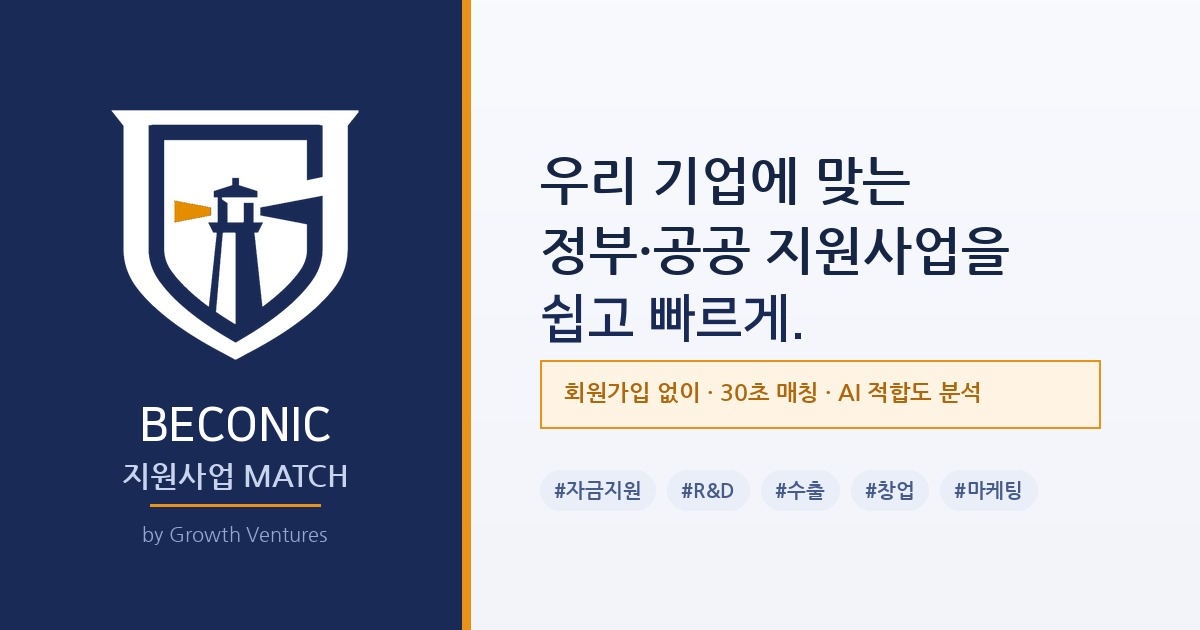
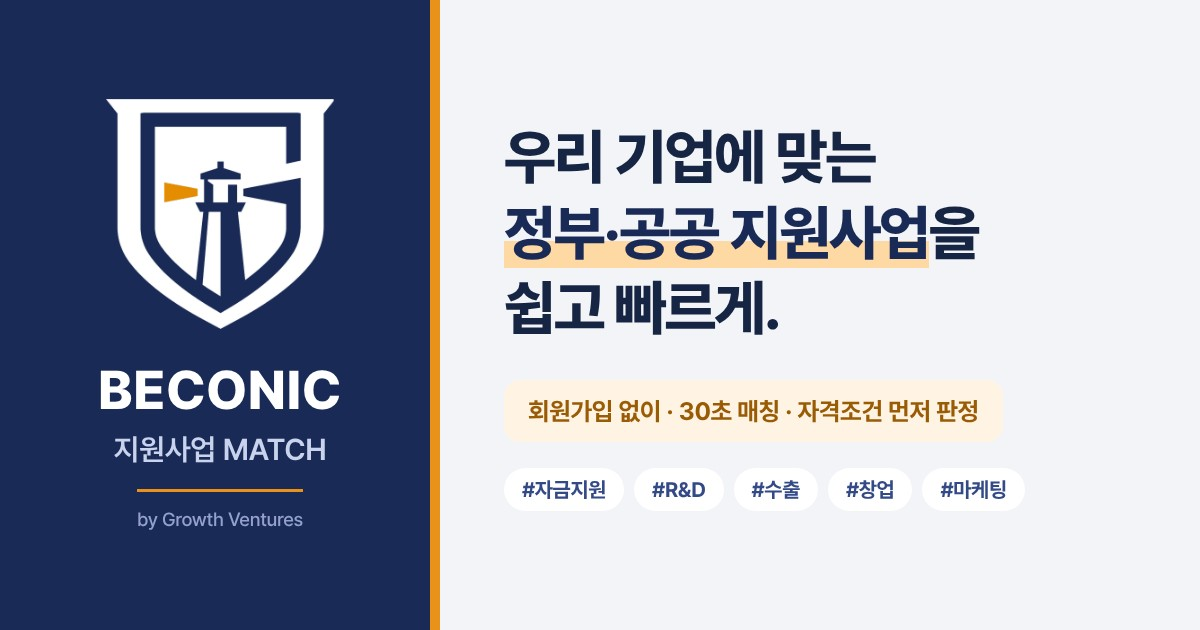
grants v3.21.1: 카카오톡 미리보기 이미지 Pretendard 재제작 · 챗봇 카드 썸네일 (#65)
- 미리보기(OG) 1200×630을 design/og.html 원본에서 Pretendard로 다시 제작, scripts/render-images.mjs로 재생성(글꼴 로드 확인), 캐시 버전 v=210
- 챗봇 카드 썸네일 800×400(맞춤 매칭·상담·재무·HR·기술·성장), design/kakao-card.html 원본, assets/kakao/
- 어두운 바탕용 흰 방패 로고 assets/shield-white.png
- 지원사업 MATCH 카드 버튼 '진단 시작' → '지원사업 찾기'
- 서버 테스트: 썸네일 https·파일 존재·캐러셀 일관성 검사

Claude-Session: https://claude.ai/code/session_0161FRMUtymWUwHkGZAfqS4C

Changed region(s): [[0.3392, 0.0, 0.925, 1.0], [0.0617, 0.1508, 0.3083, 0.8746], [0.4317, 0.754, 0.8633, 0.8143]]

diff --git a/grants/design/kakao-card.html b/grants/design/kakao-card.html
@@ -1,0 +1,31 @@
+<!DOCTYPE html>
+<!-- 카카오 챗봇 카드 썸네일 원본(800×400, 2:1). 주소 뒤 #종류 로 내용을 고른다. `node scripts/render-images.mjs`로 assets/kakao/에 만든다. -->
+<html lang="ko"><head><meta charset="UTF-8">
+<link rel="stylesheet" href="https://cdn.jsdelivr.net/gh/orioncactus/pretendard@v1.3.9/dist/web/static/pretendard.min.css">
+<style>
+*{box-sizing:border-box;margin:0}
+body{width:800px;height:400px;font-family:'Pretendard',sans-serif;letter-spacing:-.02em;word-break:keep-all;overflow:hidden;
+  background:var(--bg);color:#fff;display:flex;flex-direction:column;justify-content:center;padding:0 60px;position:relative}
+body::before{content:"";position:absolute;right:-90px;top:-90px;width:340px;height:340px;border-radius:50%;background:var(--glow)}
+.k{display:inline-flex;align-items:center;gap:10px;font-size:22px;font-weight:700;color:var(--kc);margin-bottom:18px}
+.k img{width:34px;height:34px}
+h1{font-size:52px;font-weight:800;line-height:1.25;letter-spacing:-.035em;max-width:600px;position:relative}
+p{font-size:23px;font-weight:600;color:var(--pc);margin-top:18px;position:relative}
+.ic{position:absolute;right:60px;bottom:52px;font-size:84px;line-height:1}
+</style></head><body>
+<span class="k"><img src="../assets/shield-white.png" alt="">BECONIC</span>
+<h1 id="t"></h1><p id="d"></p><span class="ic" id="i"></span>
+<script>
+const C={
+  match:   {t:'우리 회사 맞춤<br>지원사업 찾기', d:'회원가입 없이 · 30초 · 자격조건 먼저 판정', i:'🎯', bg:'#1a2a56', glow:'rgba(120,150,230,.16)', kc:'#ffd08a', pc:'#c9d3ee'},
+  consult: {t:'전문 컨설턴트와<br>함께 준비해요', d:'중기부 인증 중소기업상담회사 (제2025-684호)', i:'💬', bg:'#e8921a', glow:'rgba(255,255,255,.18)', kc:'#fff4e4', pc:'#fff4e4'},
+  finance: {t:'기업 재무진단', d:'성장성·수익성·안정성·현금흐름', i:'📊', bg:'#1f6f5c', glow:'rgba(255,255,255,.12)', kc:'#c8f0e2', pc:'#c8f0e2'},
+  hr:      {t:'HR 조직건강 진단', d:'조직 상태·HR 제도·법정 노무', i:'👥', bg:'#3b4fa0', glow:'rgba(255,255,255,.12)', kc:'#dfe5fb', pc:'#dfe5fb'},
+  tech:    {t:'기업 기술진단', d:'기술수준·R&D 역량·기술격차', i:'🔬', bg:'#24406f', glow:'rgba(255,255,255,.12)', kc:'#d4e2fa', pc:'#d4e2fa'},
+  growth:  {t:'성장활동 진단', d:'9개 영역 27문항 · 90일 실행계획', i:'🚀', bg:'#5b3e8f', glow:'rgba(255,255,255,.12)', kc:'#e9dffb', pc:'#e9dffb'},
+};
+const c=C[location.hash.slice(1)]||C.match;
+for(const [k,v] of Object.entries({'--bg':c.bg,'--glow':c.glow,'--kc':c.kc,'--pc':c.pc})) document.body.style.setProperty(k,v);
+t.innerHTML=c.t; d.textContent=c.d; i.textContent=c.i;
+</script>
+</body></html>

diff --git a/grants/design/og.html b/grants/design/og.html
@@ -1,0 +1,27 @@
+<!DOCTYPE html>
+<!-- 카카오톡·SNS 미리보기 이미지 원본(1200×630). 수정 후 `node scripts/render-images.mjs`로 assets/에 다시 만든다. -->
+<html lang="ko"><head><meta charset="UTF-8">
+<link rel="stylesheet" href="https://cdn.jsdelivr.net/gh/orioncactus/pretendard@v1.3.9/dist/web/static/pretendard.min.css">
+<style>
+*{box-sizing:border-box;margin:0}
+body{width:1200px;height:630px;font-family:'Pretendard',sans-serif;display:flex;letter-spacing:-.02em;word-break:keep-all;overflow:hidden}
+.l{width:440px;background:#1a2a56;color:#fff;display:flex;flex-direction:column;align-items:center;justify-content:center;gap:0;position:relative}
+.l::after{content:"";position:absolute;right:0;top:0;bottom:0;width:10px;background:#e8921a}
+.l img{width:230px;height:230px;margin-bottom:34px}
+.l b{font-size:54px;font-weight:800;letter-spacing:.01em;line-height:1}
+.l .s{font-size:30px;font-weight:600;color:#c9d3ee;margin-top:14px}
+.l .by{font-size:19px;font-weight:500;color:#93a1cc;margin-top:22px;padding-top:16px;border-top:3px solid #e8921a}
+.r{flex:1;background:#f2f4f7;padding:0 64px;display:flex;flex-direction:column;justify-content:center}
+h1{font-size:60px;font-weight:800;line-height:1.26;color:#172544;letter-spacing:-.035em}
+h1 em{font-style:normal;color:#1a2a56;background:linear-gradient(transparent 62%,#ffd9a3 62%)}
+.chip{margin-top:34px;align-self:flex-start;font-size:25px;font-weight:700;color:#9a5b05;background:#fff4e4;border-radius:16px;padding:16px 24px}
+.tags{display:flex;gap:10px;margin-top:26px}
+.tags span{font-size:21px;font-weight:700;color:#334a86;background:#fff;border-radius:999px;padding:9px 18px}
+</style></head><body>
+<div class="l"><img src="../assets/shield-white.png" alt=""><b>BECONIC</b><span class="s">지원사업 MATCH</span><span class="by">by Growth Ventures</span></div>
+<div class="r">
+  <h1>우리 기업에 맞는<br><em>정부·공공 지원사업</em>을<br>쉽고 빠르게.</h1>
+  <span class="chip">회원가입 없이 · 30초 매칭 · 자격조건 먼저 판정</span>
+  <div class="tags"><span>#자금지원</span><span>#R&amp;D</span><span>#수출</span><span>#창업</span><span>#마케팅</span></div>
+</div>
+</body></html>

diff --git a/grants/index.html b/grants/index.html
@@ -14,8 +14,8 @@
 <meta property="og:title" content="30초면 끝나는 우리 기업 지원사업 매칭" />
 <meta property="og:description" content="자격조건을 먼저 판정해 검토할 만한 사업만. 지원규모 대시보드·매칭 근거·무가입 재매칭까지." />
 <meta property="og:url" content="https://beconic-grant-matching.netlify.app/" />
-<meta property="og:image" content="https://beconic-grant-matching.netlify.app/assets/og-grant-matching-1200x630.jpg?v=200" />
-<meta property="og:image:secure_url" content="https://beconic-grant-matching.netlify.app/assets/og-grant-matching-1200x630.jpg?v=200" />
+<meta property="og:image" content="https://beconic-grant-matching.netlify.app/assets/og-grant-matching-1200x630.jpg?v=210" />
+<meta property="og:image:secure_url" content="https://beconic-grant-matching.netlify.app/assets/og-grant-matching-1200x630.jpg?v=210" />
 <meta property="og:image:type" content="image/jpeg" />
 <meta property="og:image:width" content="1200" />
 <meta property="og:image:height" content="630" />
@@ -23,7 +23,7 @@
 <meta name="twitter:card" content="summary_large_image" />
 <meta name="twitter:title" content="30초면 끝나는 우리 기업 지원사업 매칭" />
 <meta name="twitter:description" content="자격조건부터 판정하는 무가입 지원사업 매칭. 지원규모·매칭 근거·재매칭." />
-<meta name="twitter:image" content="https://beconic-grant-matching.netlify.app/assets/og-grant-matching-1200x630.jpg?v=200" />
+<meta name="twitter:image" content="https://beconic-grant-matching.netlify.app/assets/og-grant-matching-1200x630.jpg?v=210" />
 
 <link rel="icon" type="image/png" sizes="32x32" href="assets/icon-32.png" />
 <link rel="apple-touch-icon" href="assets/icon-180.png" />

diff --git a/grants/app.js b/grants/app.js
@@ -8,9 +8,10 @@
 
 /* ---------- 버전 정보 (수정 시마다 갱신) ---------- */
 const APP_VERSION = {
-  version: 'v3.21.0',
+  version: 'v3.21.1',
   updated: '2026-10-30',
   changelog: [
+    { v:'v3.21.1', d:'2026-10-30', note:'카카오톡 미리보기 이미지를 Pretendard 글꼴로 다시 제작(원본 HTML 보관·재생성 스크립트), 카카오 챗봇 카드에 썸네일(맞춤 매칭·상담·진단 분야별), 지원사업 MATCH 카드 버튼 \'지원사업 찾기\'' },
     { v:'v3.21.0', d:'2026-10-30', note:'화면 디자인 정리(토스식): 선 대신 면으로 구분·넉넉한 여백·버튼 위계, 단어 단위 줄바꿈(제목·버튼이 한두 글자로 끊기지 않게), 결과 카드 정보 순서 정리(상태·마감 → 사업명 → 지원금·적합도 → 버튼), 모바일 유형 선택 한 줄 목록·입력 다음 버튼 하단 고정·상세는 아래에서 올라오는 창, 글자 대비 접근성 기준 충족' },
     { v:'v3.20.0', d:'2026-10-29', note:'카카오 챗봇 허브 서버(오픈빌더 스킬): 카톡 채널에서 사업명 검색·마감 임박·경영진단 안내·상담 연결, 진단툴 목록 한 곳에서 관리' },
     { v:'v3.19.1', d:'2026-10-29', note:'카카오톡 상담 연결: 신청 도움받기 창 맨 앞에 카카오톡 채널(비코닉) 1:1 채팅 — 누르면 요청 내용이 자동 복사되어 붙여넣기만 하면 됨, 결과 하단 상담 영역에도 카톡 상담 버튼' },

diff --git a/grants/docs/KAKAO_BOT.md b/grants/docs/KAKAO_BOT.md
@@ -30,6 +30,8 @@
 5. 상담원 응대: 채널 관리자센터의 1:1 채팅은 유지(운영시간 09–18시). 챗봇 응답의 '요청 남기기'로 남긴 내용은 1:1 채팅에서 답변
 6. 채팅방 하단 **커스텀 메뉴**(채널 관리자센터 → 채팅방 메뉴): 항목마다 '챗봇 블록/메시지 전송'으로 메뉴 문구(지원사업 찾기·마감 임박·사업명 검색·경영진단·상담 연결)를 보내면 이 서버가 그대로 응답. 전화는 '전화걸기'. 진단툴 주소는 넣지 않는다(AI 보호 전 비공개)
 
+카드 썸네일(2:1)은 `design/kakao-card.html`을 고쳐 `node scripts/render-images.mjs`로 다시 만들고, `kakao.mjs`의 `THUMB_V`를 올려 카카오 캐시를 비운다. 미리보기(OG) 이미지를 바꾸면 index.html의 `?v=` 값을 올리고 [카카오 공유 디버거](https://developers.kakao.com/tool/debugger/sharing)에서 주소의 캐시를 초기화한다.
+
 말풍선·카드 모양(글꼴·색·정렬·폭)은 카카오가 정해 바꿀 수 없다. 바꿀 수 있는 것은 문구·줄바꿈·이모지·카드 종류(텍스트/기본/리스트/캐러셀)·썸네일 이미지·버튼이며, 줄바꿈은 응답에서 그대로 유지한다.
 
 ## 진단툴 추가 (27개로 확장)

diff --git a/grants/docs/CHANGELOG.md b/grants/docs/CHANGELOG.md
@@ -1,5 +1,13 @@
 # 지원사업 MATCH 변경 기록
 
+## v3.21.1 (2026-10-30) — 카카오톡 미리보기·챗봇 카드 이미지
+
+- 카카오톡·SNS 미리보기 이미지(1200×630)를 **Pretendard** 글꼴로 다시 제작. 원본 `design/og.html`을 저장소에 보관, `node scripts/render-images.mjs`로 다시 만듦(글꼴 로드 실패 시 중단). 캐시 버전 `?v=210`
+- 카카오 챗봇 카드에 썸네일(800×400): 맞춤 매칭·상담·재무·HR·기술·성장. 원본 `design/kakao-card.html`, 파일 `assets/kakao/`
+- 어두운 바탕용 흰 방패 로고 `assets/shield-white.png`
+- 챗봇 '지원사업 MATCH' 카드 버튼 '진단 시작' → '지원사업 찾기'
+- 서버 테스트: 썸네일은 https·실제 파일 존재·캐러셀 전부 있거나 전부 없음 검사
+
 ## v3.21.0 (2026-10-30) — 화면 디자인 정리(토스식)
 
 | 구분 | 변경 |

diff --git a/grants/README.md b/grants/README.md
@@ -1,4 +1,4 @@
-# BECONIC 지원사업 MATCH (v3.21.0)
+# BECONIC 지원사업 MATCH (v3.21.1)
 
 그로스벤처스 주식회사 · 중소벤처기업부 공식 인증 중소기업상담회사 제2025-684호
 서비스 주소: https://beconic-grant-matching.netlify.app
